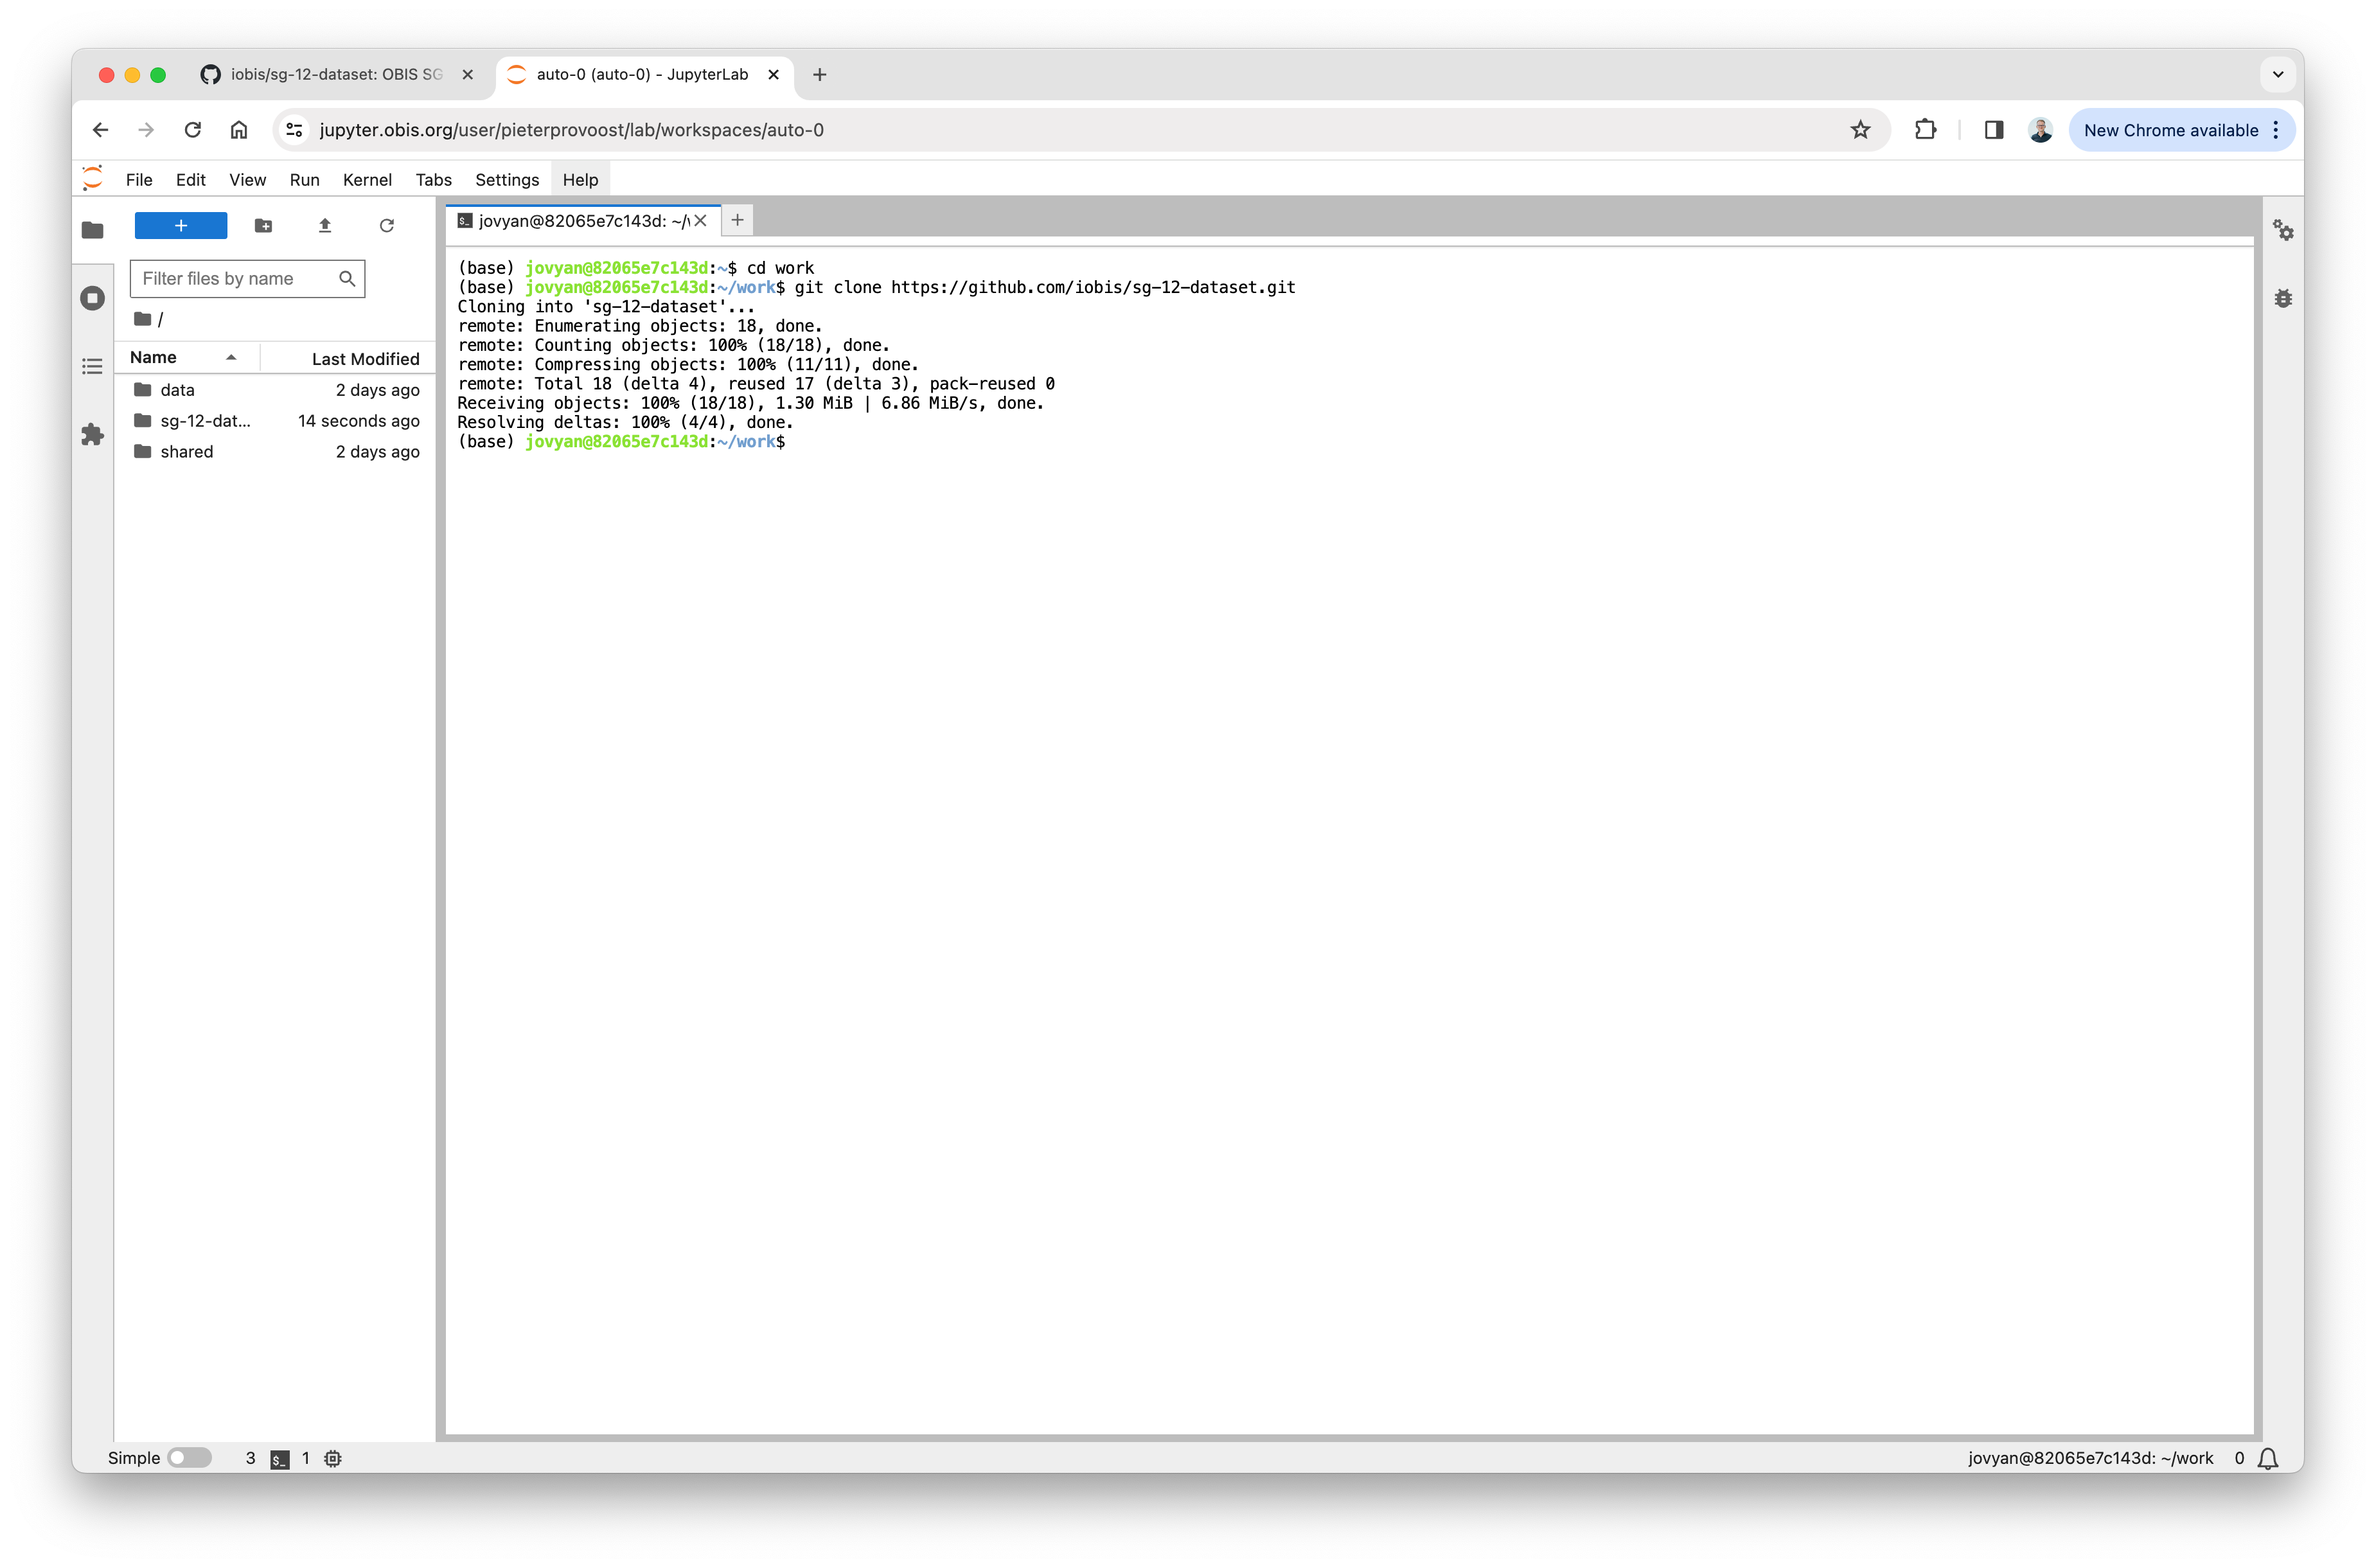
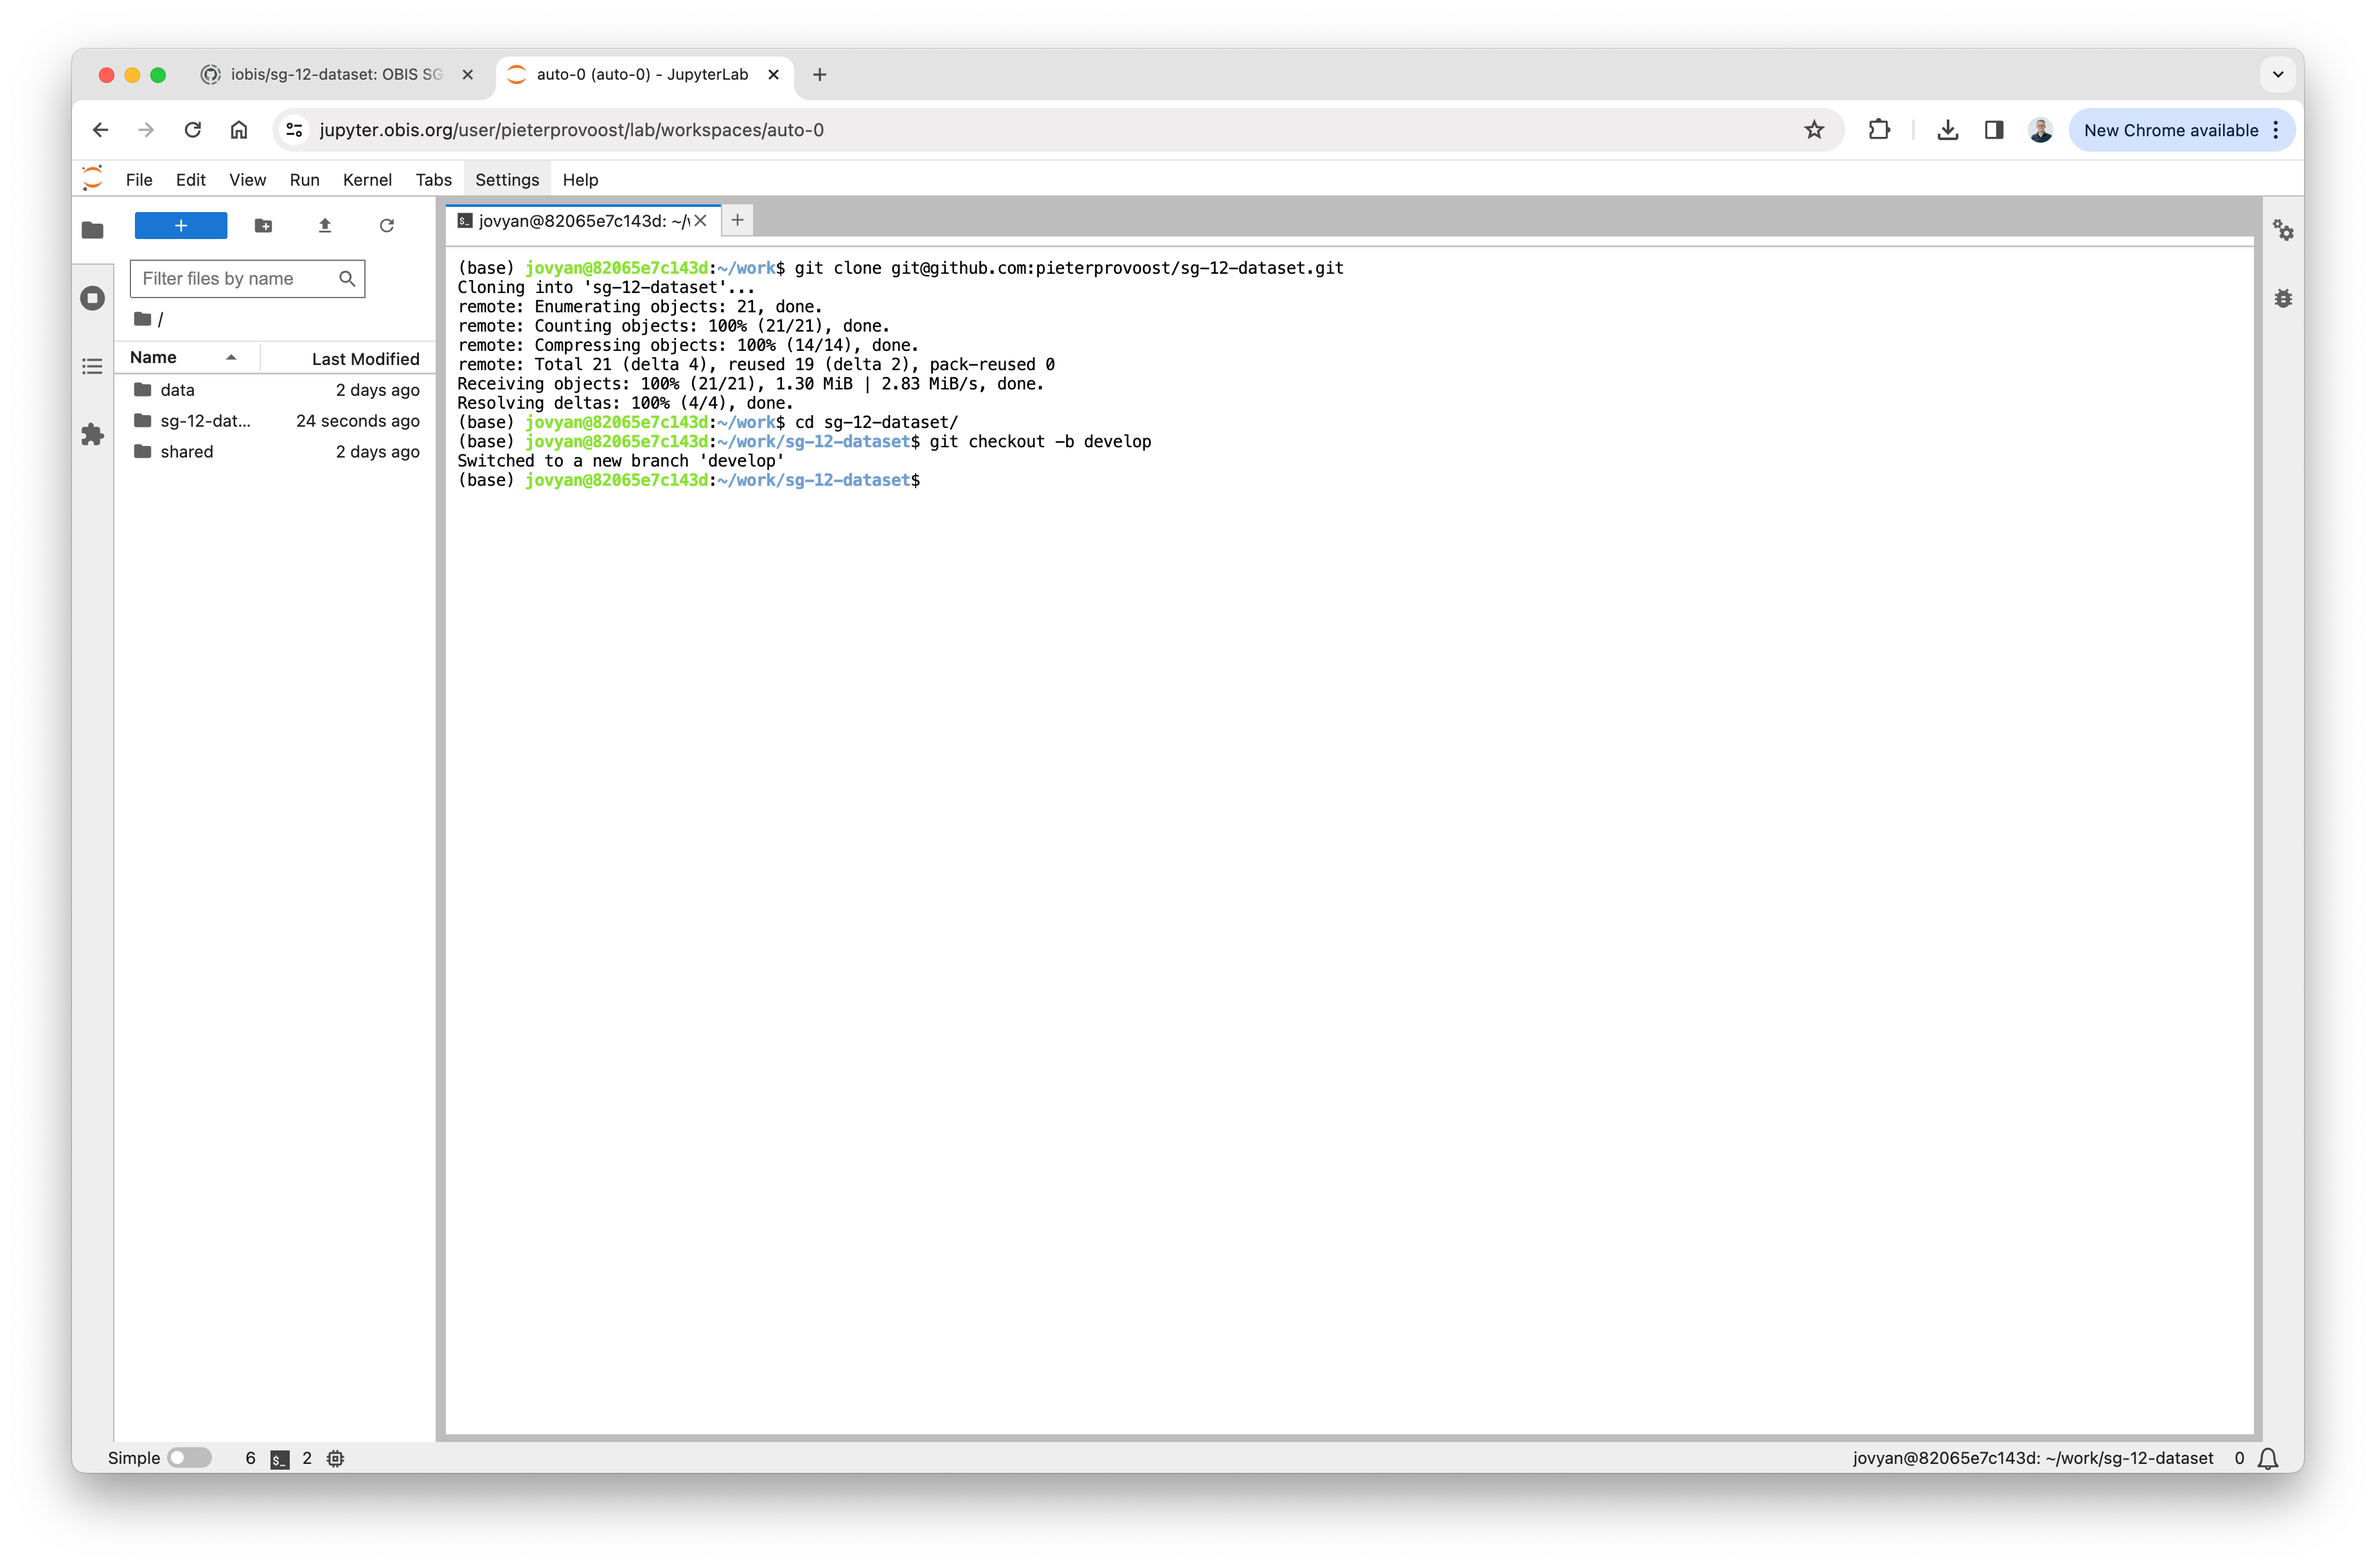
jupyter ssh

Changed region(s): [[0.1866, 0.1557, 0.5598, 0.3115], [0.8085, 0.9033, 0.9329, 0.9344], [0.7774, 0.0623, 0.8085, 0.0934]]

diff --git a/dataset.md b/dataset.md
@@ -2,6 +2,8 @@
 
 ## Authentication with GitHub
 
+![](images/jupyter_ssh.png)
+
 ## Cloning the dataset repository
 
 Open a new terminal in JupyterHub, navigate to the `work` folder, and clone your fork of the dataset repository. Make sure to change `<username>` in the command below to your own. After cloning, go into the dataset folder and create a new branch to work in.
@@ -26,6 +28,8 @@ Close the terminal, navigate to `sg-12-dataset/scripts`, and create a new R note
 An example solution is available at <https://github.com/pieterprovoost/sg-12-dataset>. If necessary, download the notebook from GitHub and upload it to your scripts folder.
 
 ## Pushing your work to GitHub
+
+![](images/jupyter_push.png)
 
 ```bash
 (base) jovyan@82065e7c143d:~/work/sg-12-dataset$ git add .
